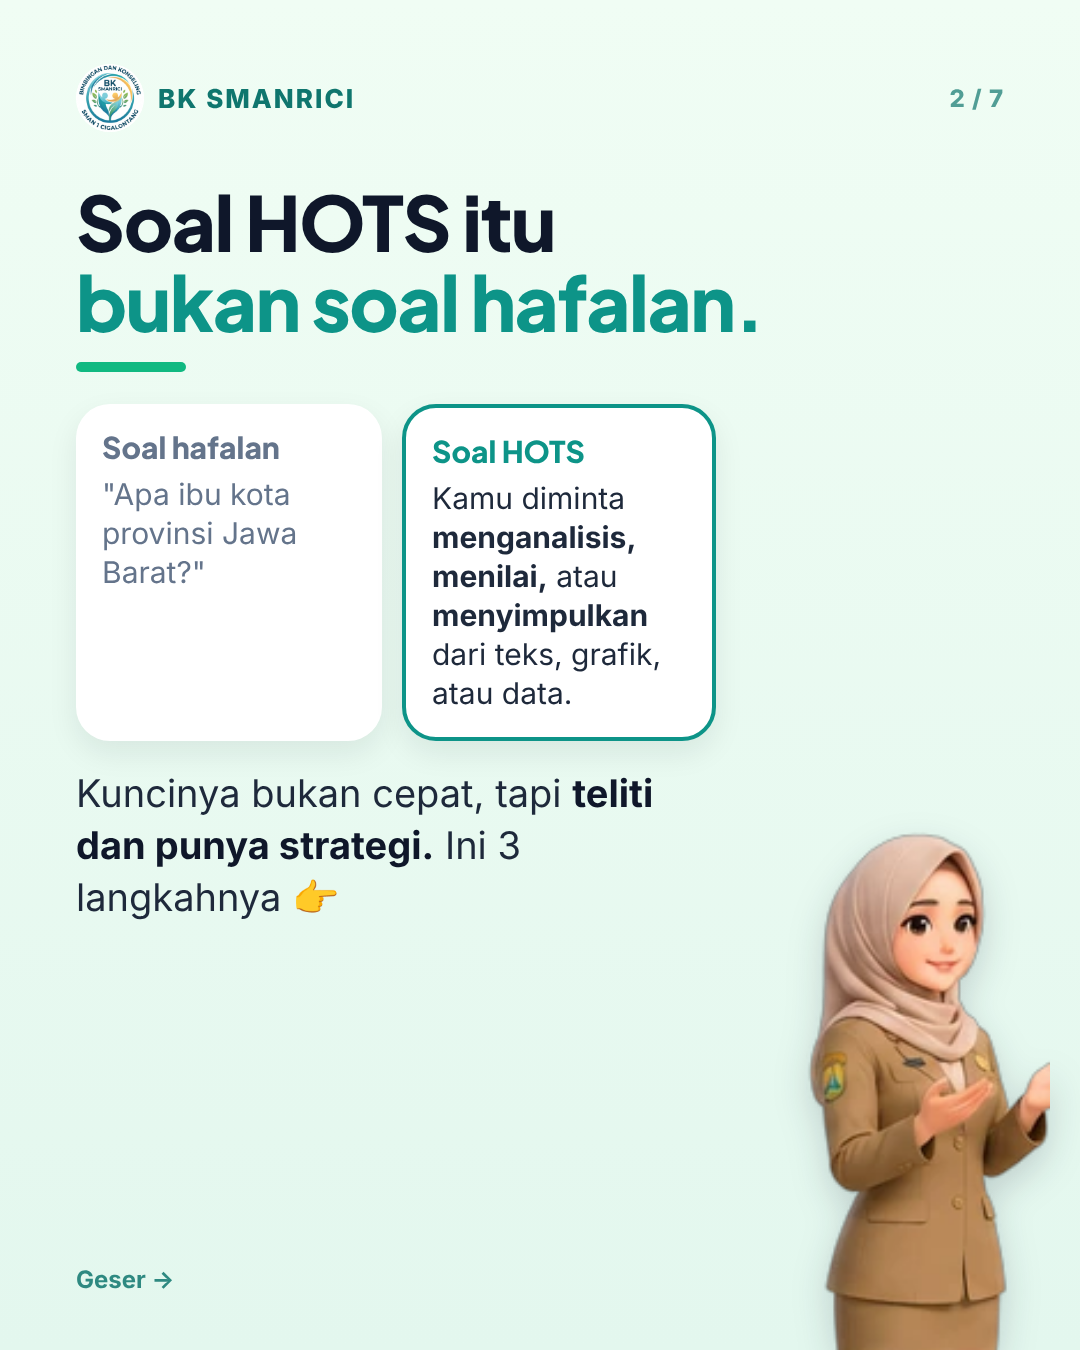
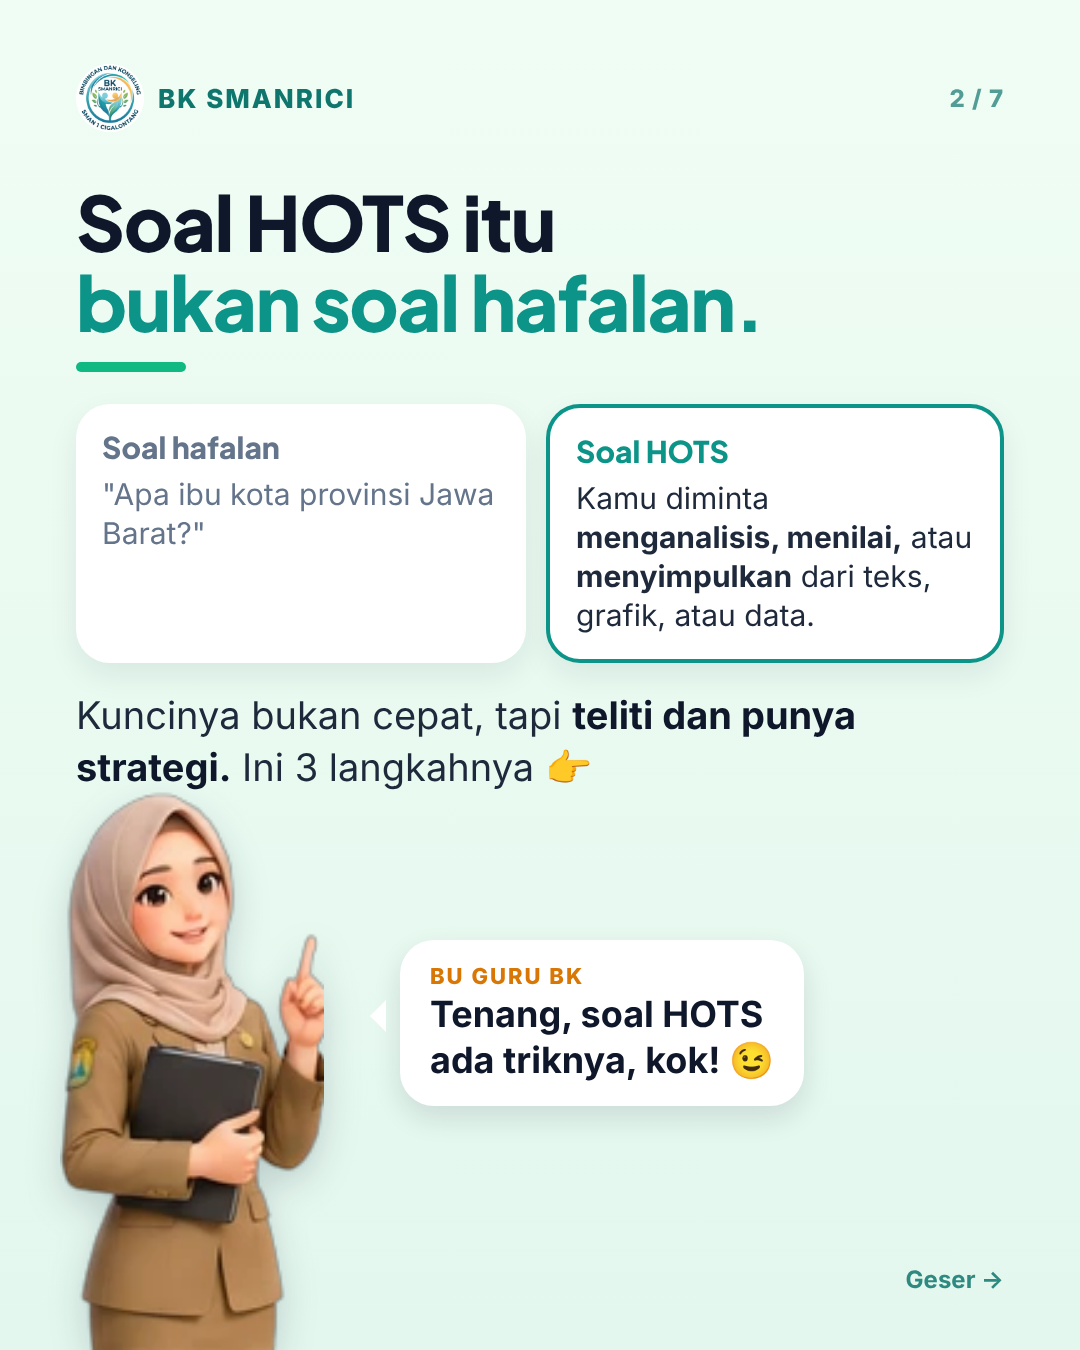
Perbaiki slide 2 carousel HOTS: guru BK utuh di kiri + gelembung ucapan
Claude-Session: https://claude.ai/code/session_018WWHGzf43cnjJy346VsAtj

diff --git a/BK-Cigalontang/konten-instagram/desain/strategi-hots-carousel.html b/BK-Cigalontang/konten-instagram/desain/strategi-hots-carousel.html
@@ -75,6 +75,11 @@
   .k-lama .h { color: var(--abu); } .k-lama { color: var(--abu); }
   .k-hots { border: 4px solid var(--toska); } .k-hots .h { color: var(--toska); }
 
+  .gel-guru { position: absolute; left: 400px; top: 940px; z-index: 2; background: #fff; border-radius: 34px; padding: 22px 30px;
+              font-size: 36px; font-weight: 700; line-height: 1.3; color: var(--tinta); box-shadow: 0 12px 28px rgba(15,23,42,.12); }
+  .gel-guru small { display: block; font-size: 22px; font-weight: 800; letter-spacing: 2px; color: var(--emas-tua); }
+  .gel-guru::after { content: ""; position: absolute; left: -30px; top: 60px; border: 16px solid transparent; border-right-color: #fff; border-left: 0; }
+
   /* contoh soal */
   .soal { margin-top: 30px; width: 660px; font-size: 32px; line-height: 1.4; }
   .soal .lbl { font-size: 22px; font-weight: 800; letter-spacing: 2px; color: var(--abu); margin-bottom: 8px; }
@@ -147,13 +152,14 @@
   <div class="bar"><div class="logo"><img src="../brand/logo-bk-smanrici.png" alt="">BK SMANRICI</div><div class="hal">2 / 7</div></div>
   <h2 style="margin-top:50px">Soal HOTS itu<br><em>bukan soal hafalan.</em></h2>
   <div class="garis"></div>
-  <div class="bukan">
+  <div class="bukan" style="width:928px">
     <div class="kartu k-lama"><div class="h">Soal hafalan</div>"Apa ibu kota provinsi Jawa Barat?"</div>
     <div class="kartu k-hots"><div class="h">Soal HOTS</div>Kamu diminta <b>menganalisis, menilai,</b> atau <b>menyimpulkan</b> dari teks, grafik, atau data.</div>
   </div>
-  <div class="isi" style="width:640px">Kuncinya bukan cepat, tapi <b>teliti dan punya strategi.</b> Ini 3 langkahnya 👉</div>
-  <img class="tokoh" src="../brand/karakter/3d/guru-bk-putri/pose-menjelaskan.png" alt="" style="height:520px;right:30px">
-  <div class="foot">Geser →</div>
+  <div class="isi" style="width:928px">Kuncinya bukan cepat, tapi <b>teliti dan punya strategi.</b> Ini 3 langkahnya 👉</div>
+  <img class="tokoh" src="../brand/karakter/3d/guru-bk-putri/pose-memberi-arahan.png" alt="" style="height:560px;left:60px">
+  <div class="gel-guru"><small>BU GURU BK</small>Tenang, soal HOTS<br>ada triknya, kok! 😉</div>
+  <div class="foot" style="justify-content:flex-end">Geser →</div>
 </section></div>
 
 <!-- 3 · BACA -->
